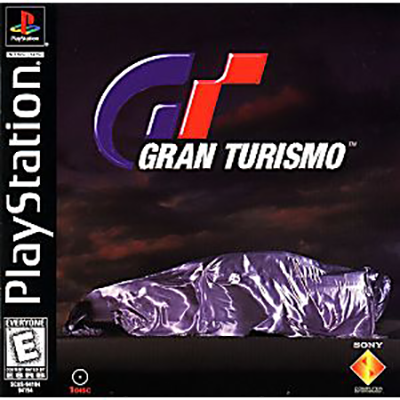
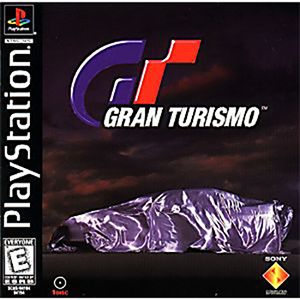
new

diff --git a/project2/ps1.html b/project2/ps1.html
@@ -32,8 +32,8 @@
             <h1>Top Sellers Games</h1>
             
             <div class="container">
-            <a href="https://www.youtube.com/watch?v=lkbCj82kKik&t=2s&ab_channel=giltelles"><img class="game1"  src="images/ps1_top_1.jpg"></a>
-            <a href="https://www.youtube.com/watch?v=JujtlsiqZ-E&ab_channel=StanfordFunk"><img class="game2"  src="images/ps1_top_2.jpg"></a>
+            <a href="https://www.youtube.com/watch?v=lkbCj82kKik&t=2s&ab_channel=giltelles"><img class="game1"  src="images/ps1_top_1.png"></a>
+            <a href="https://www.youtube.com/watch?v=JujtlsiqZ-E&ab_channel=StanfordFunk"><img class="game2"  src="images/ps1_top_2.png"></a>
             <a href="https://www.youtube.com/watch?v=NC2qKy-WMf4&ab_channel=HitomiOfficialRu"><img class="game3"  src="images/ps1_top_3.jpg"></a> 
 
             </div>
